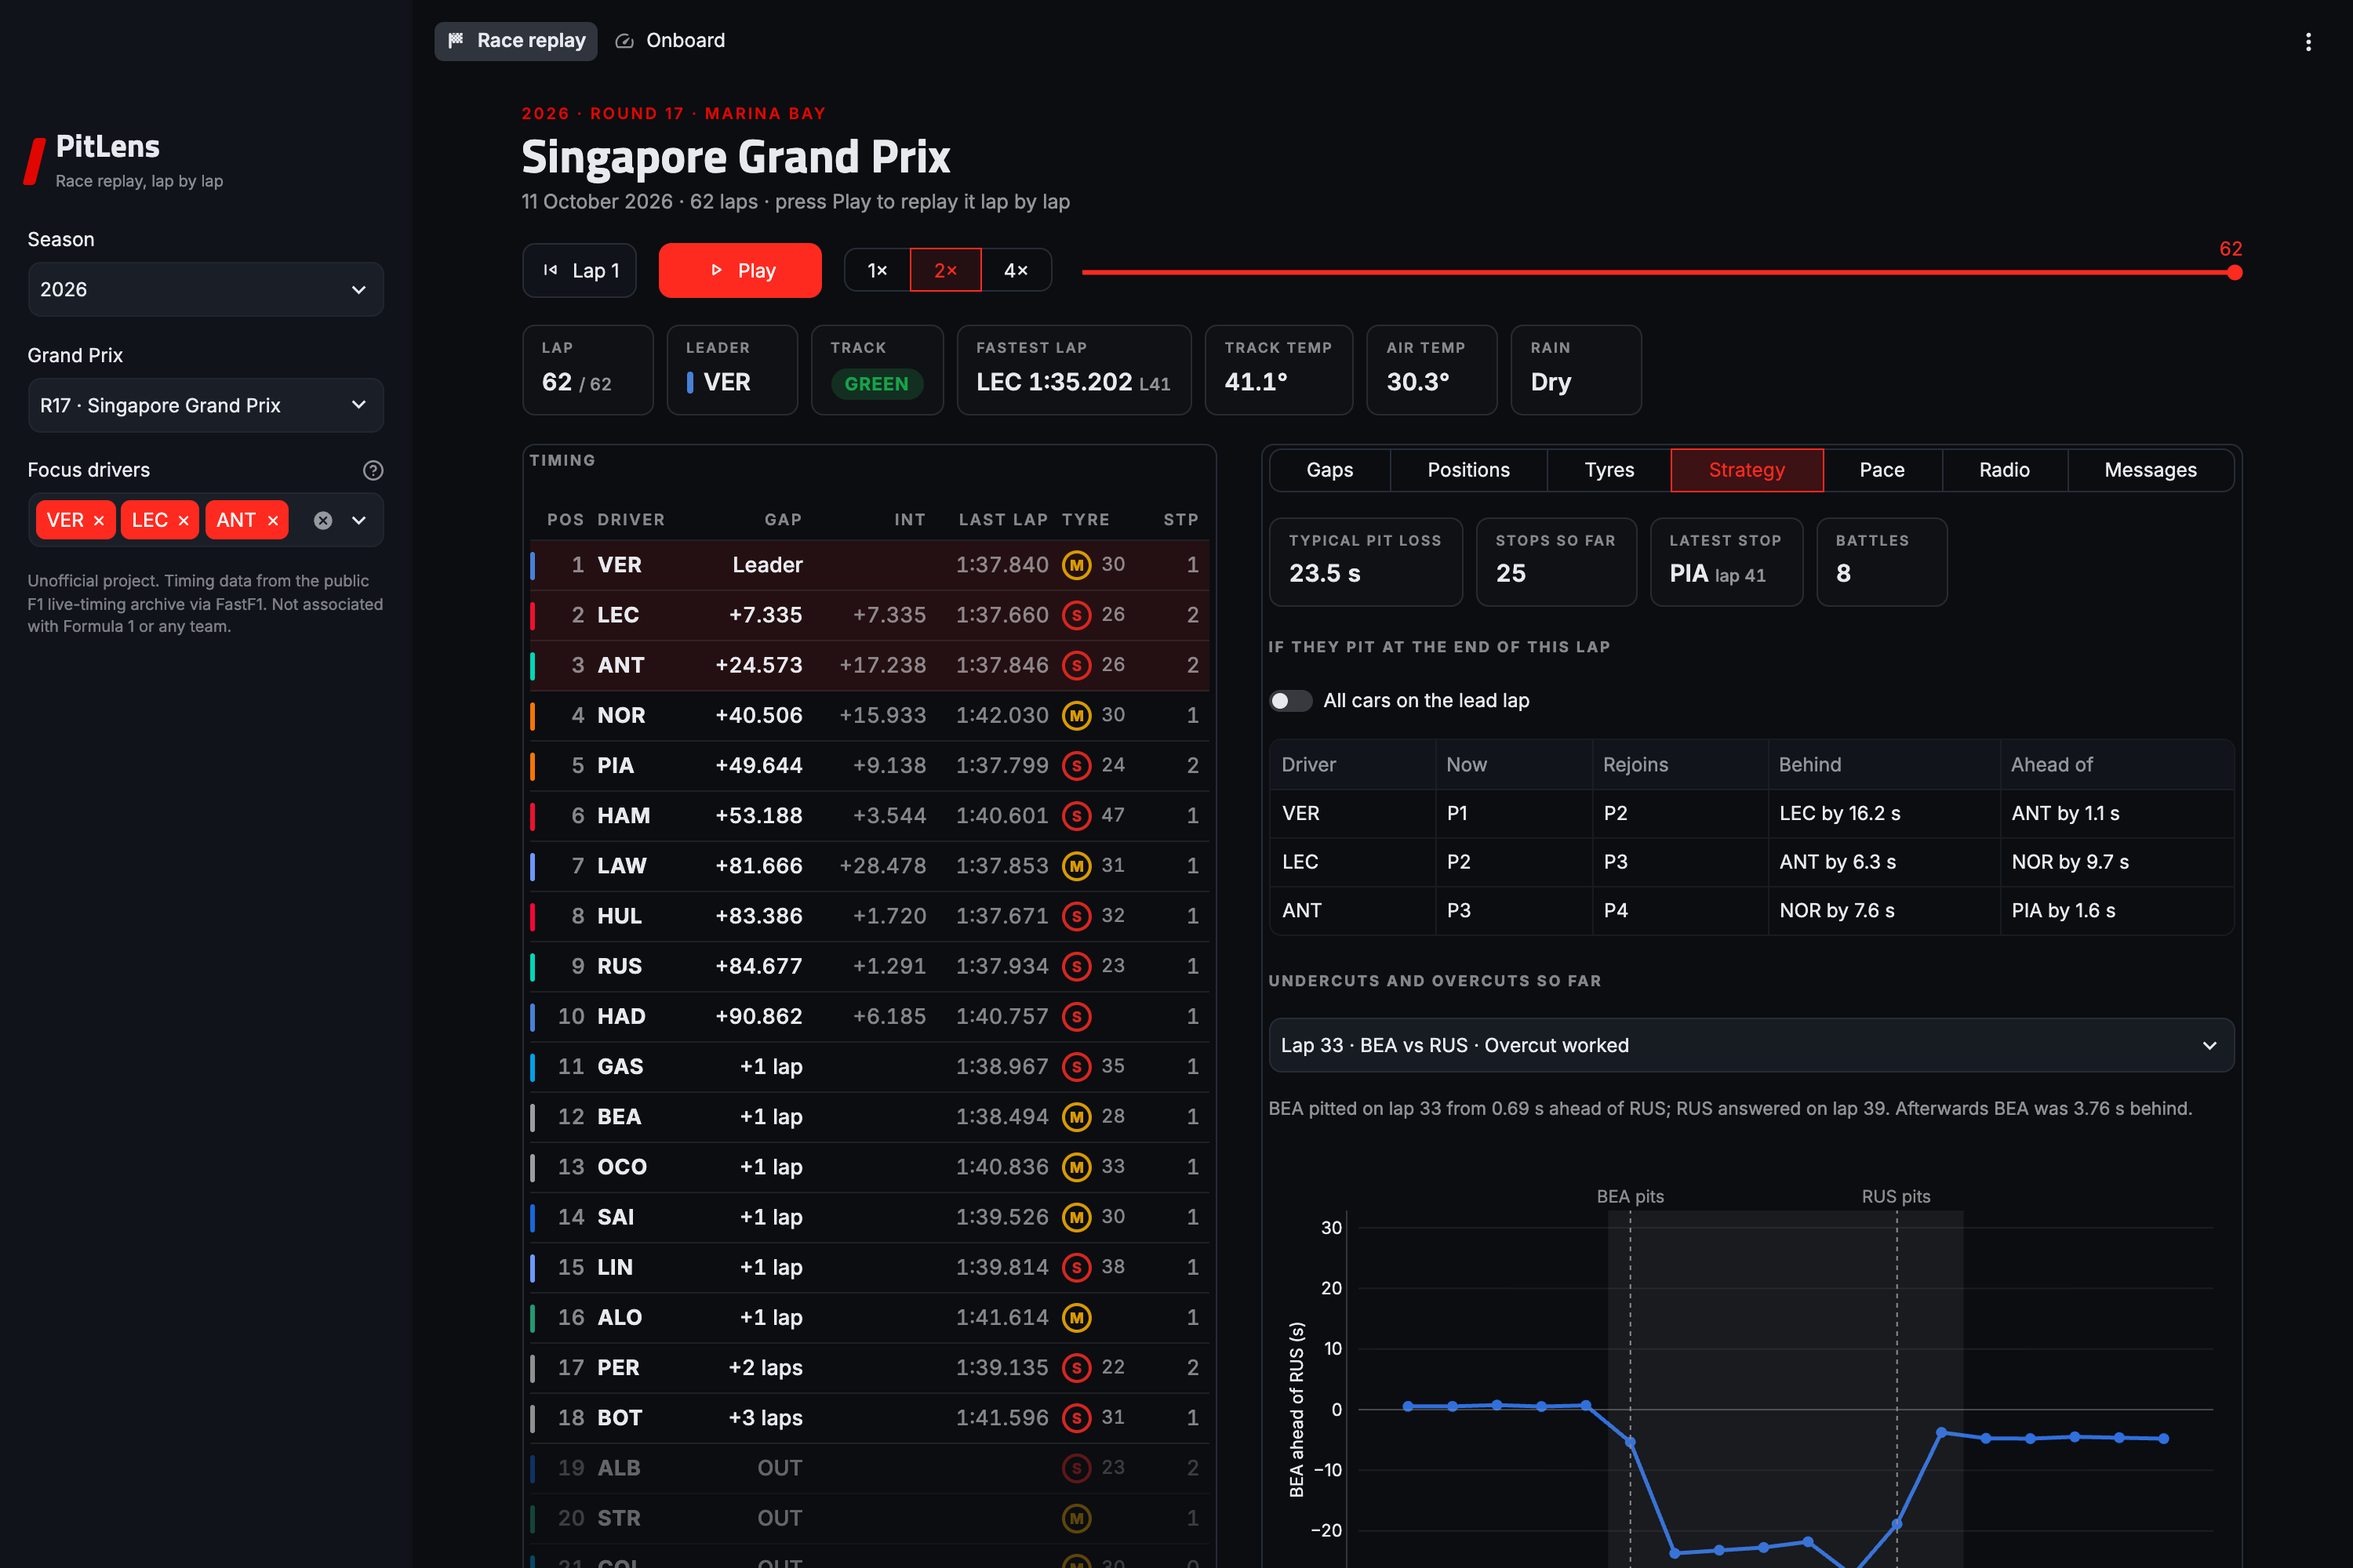
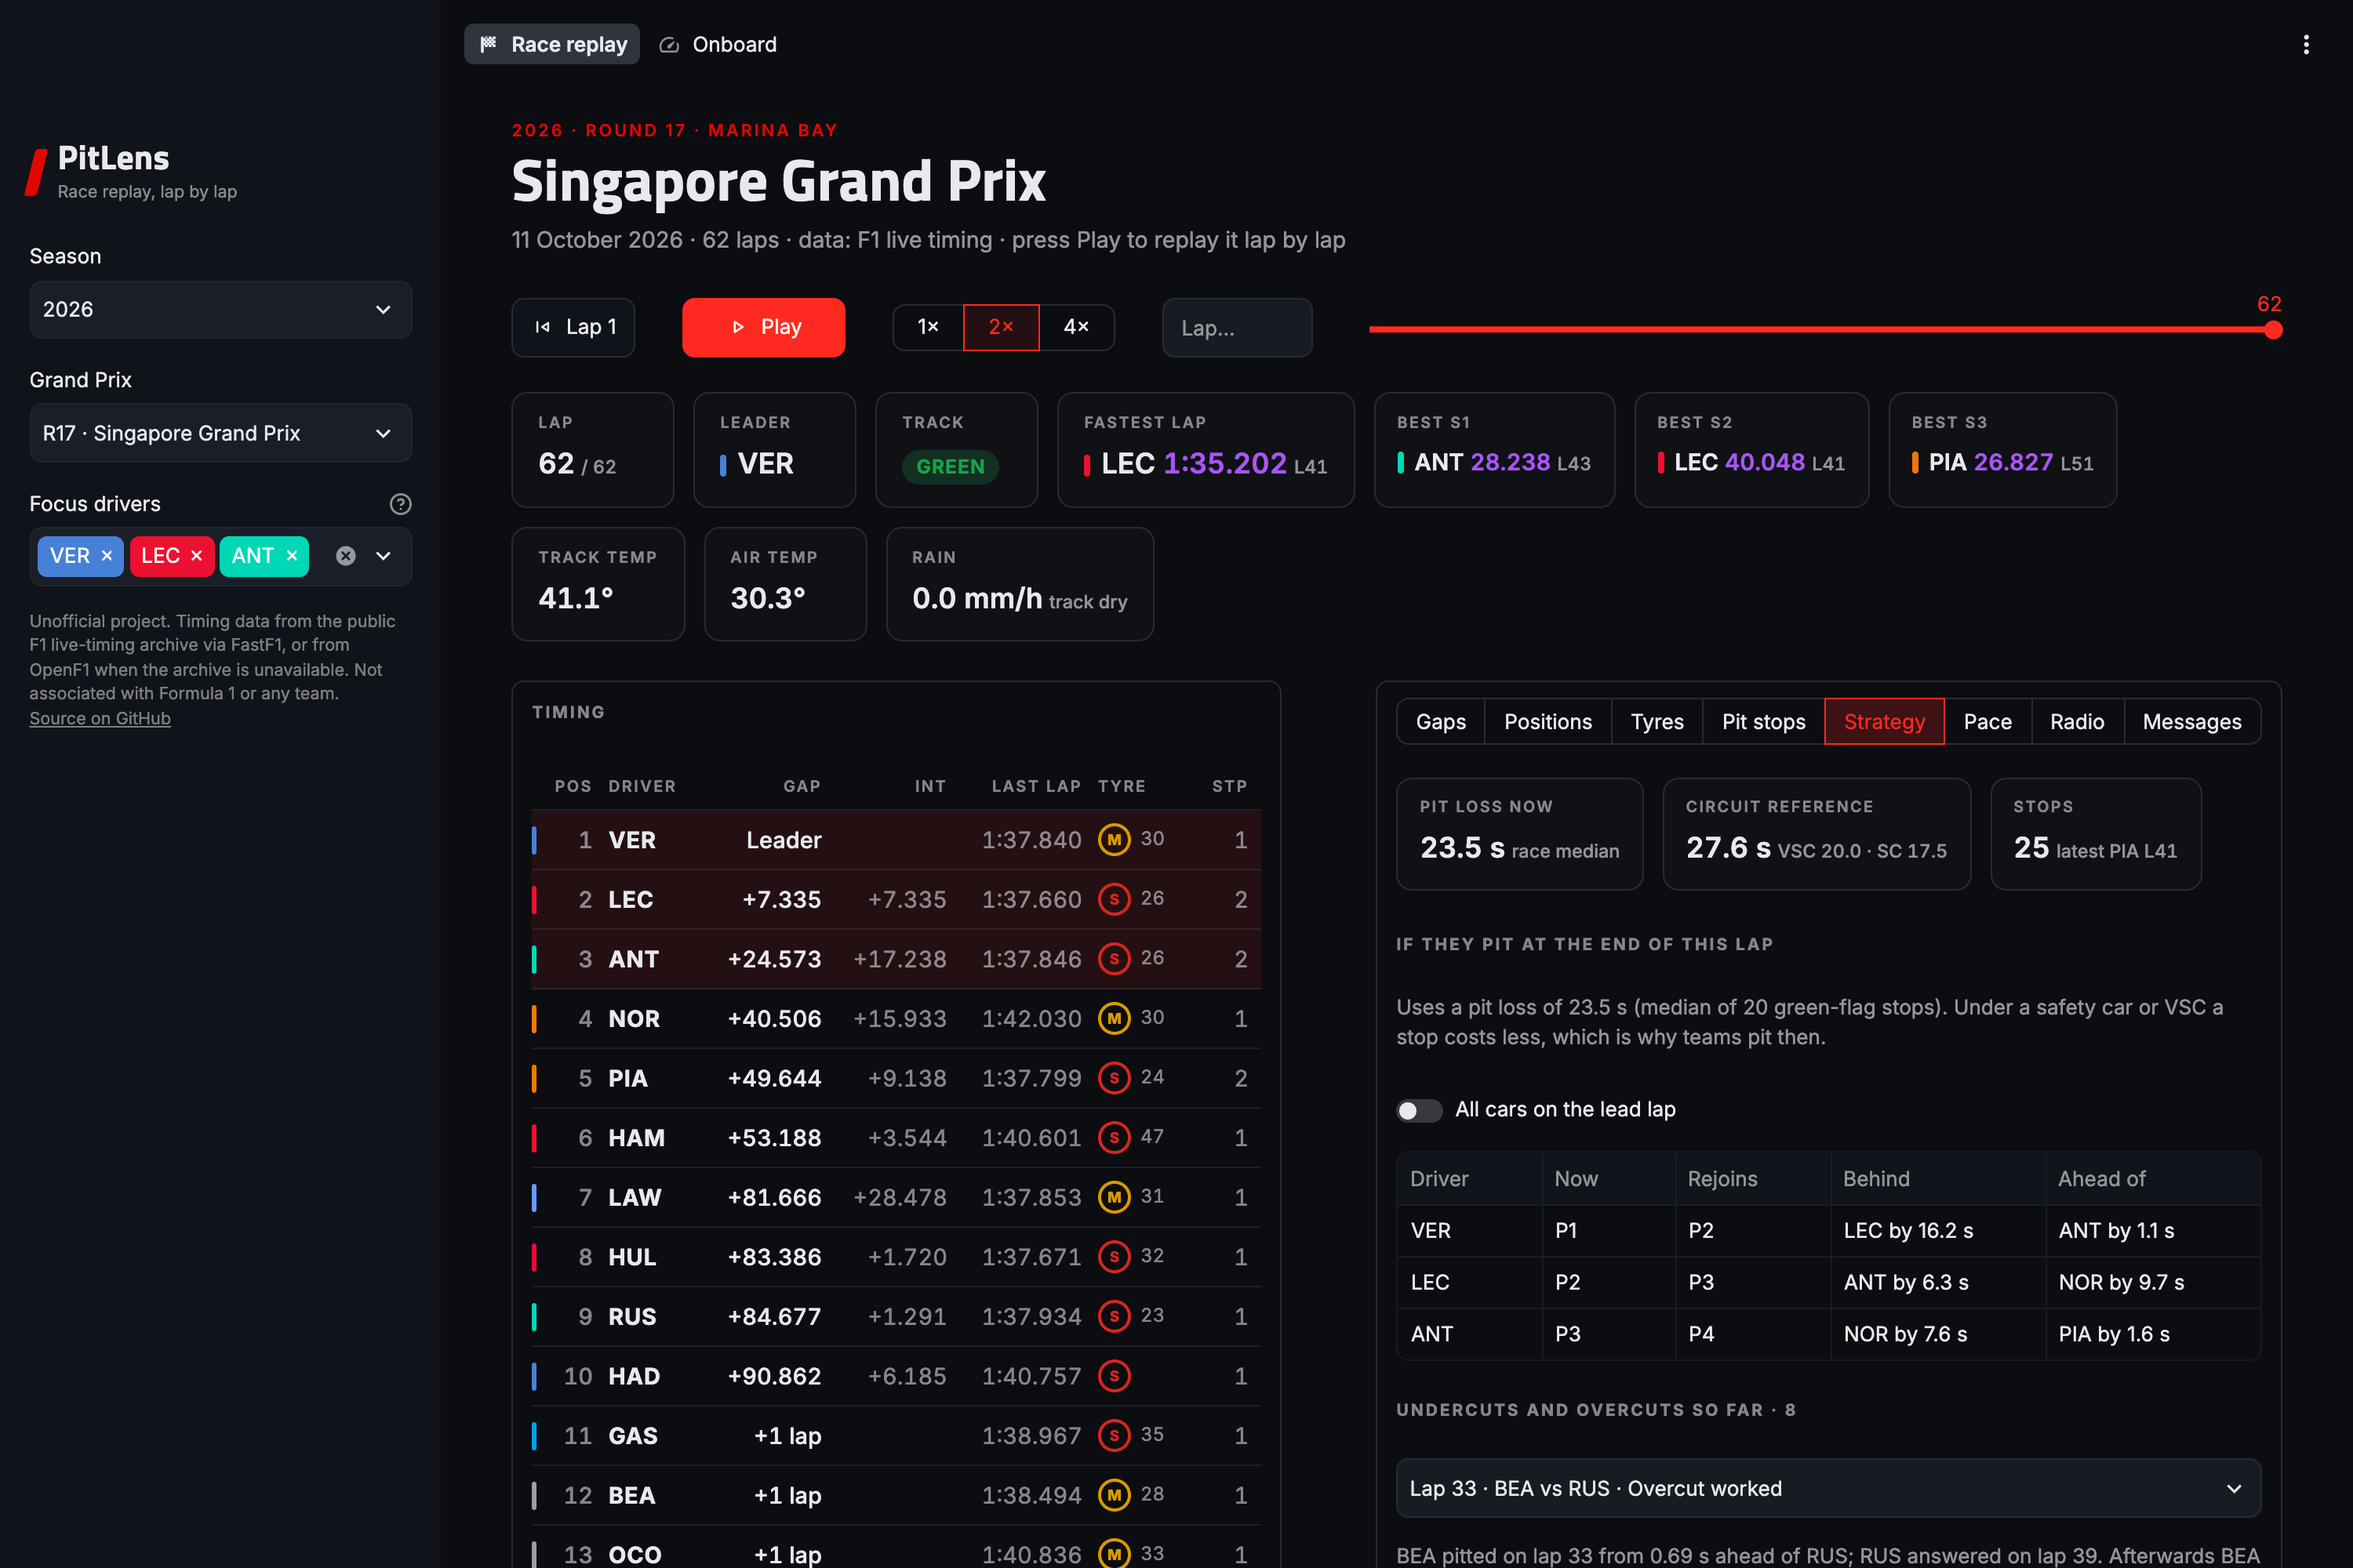
Fit the pit stop list and views bar to their card; refresh README screenshots
The stop list sizes to its card with container queries rather than the
window, so the places column no longer clips at 1500 px, and all eight
views fit the bar. The README gets a Pit stops section and up-to-date
pit wall and strategy screenshots.

diff --git a/pitlens/pitwall/ui.py b/pitlens/pitwall/ui.py
@@ -119,12 +119,12 @@ h1, h2, h3 { letter-spacing: -0.01em; }
 @keyframes pl-in { from { opacity: 0; transform: translateX(28px); } }
 @keyframes pl-out { to { opacity: 0; transform: translateX(28px); visibility: hidden; } }
 
-/* Pit stop list: one row per stop, newest first */
-.pl-pits-wrap { overflow-x: auto; }
-.pl-pits { max-height: 430px; overflow-y: auto; min-width: 560px; }
+/* Pit stop list: one row per stop, newest first. It sizes to its card (container queries), not the window. */
+.pl-pits-wrap { container-type: inline-size; }
+.pl-pits { max-height: 430px; overflow-y: auto; }
 .pl-pit { display: grid; grid-template-columns: 62px 64px minmax(118px, 1fr) 70px 70px 62px 118px; align-items: center;
   gap: 8px; padding: 8px 6px; border-bottom: 1px solid rgba(128,128,128,0.14); font-size: 0.9rem;
-  font-variant-numeric: tabular-nums; min-width: 560px; }
+  font-variant-numeric: tabular-nums; }
 .pl-pit.nostill { grid-template-columns: 62px 64px minmax(118px, 1fr) 70px 62px 118px; }
 .pl-pit.head { border-bottom: 1px solid rgba(128,128,128,0.3); padding-top: 0; font-size: 0.64rem; font-weight: 700;
   letter-spacing: 0.12em; text-transform: uppercase; opacity: 0.55; }
@@ -141,6 +141,22 @@ h1, h2, h3 { letter-spacing: -0.01em; }
 .pl-tyre { display: inline-grid; place-items: center; width: 21px; height: 21px; border-radius: 50%;
   border: 2.5px solid var(--c); font-size: 0.6rem; font-weight: 800; box-sizing: border-box; vertical-align: middle; }
 .pl-pit .arrow { opacity: 0.4; margin: 0 5px; }
+@container (max-width: 640px) {  /* narrower card: no tyre age, flag tag under the lap */
+  .pl-pit { grid-template-columns: 46px 54px 62px 54px 56px 46px minmax(0, 1fr); gap: 6px; font-size: 0.84rem; }
+  .pl-pit.nostill { grid-template-columns: 46px 54px 62px 54px 46px minmax(0, 1fr); }
+  .pl-pit.head { font-size: 0.58rem; letter-spacing: 0.08em; }
+  .pl-pit .age { display: none; }
+  .pl-pit .flag { display: block; width: fit-content; margin: 2px 0 0; }
+  .pl-pit .arrow { margin: 0 2px; }
+}
+@container (max-width: 420px) {  /* phones */
+  .pl-pit { grid-template-columns: 40px 46px 50px 40px 36px 36px minmax(0, 1fr); gap: 4px; padding: 7px 2px;
+    font-size: 0.78rem; }
+  .pl-pit.nostill { grid-template-columns: 40px 46px 50px 40px 36px minmax(0, 1fr); }
+  .pl-pit.head { font-size: 0.56rem; letter-spacing: 0.06em; }
+  .pl-pit .arrow { margin: 0 1px; }
+  .pl-tyre { width: 18px; height: 18px; border-width: 2px; font-size: 0.52rem; }
+}
 .st-key-card-views .pl-stat { padding: 10px 14px 11px; min-width: 0; }
 
 /* Sidebar brand */
@@ -156,6 +172,7 @@ h1, h2, h3 { letter-spacing: -0.01em; }
 
 /* Views bar: scroll sideways rather than wrapping onto a second row */
 .st-key-view [data-testid="stButtonGroup"] { overflow-x: auto; scrollbar-width: none; }
+.st-key-view button { padding-left: 0.6rem; padding-right: 0.6rem; }
 
 /* Replay control bar */
 .st-key-controls { align-items: center; }
@@ -171,16 +188,6 @@ h1, h2, h3 { letter-spacing: -0.01em; }
   .pl-stat.sec .v { font-size: 0.9rem; }
   [class*="st-key-card-"] { padding: 6px 4px; }
   .st-key-pl-notes { right: 10px; top: 56px; width: 236px; }
-  /* Pit stop list without sideways scrolling: no tyre age, flag tag under the lap */
-  .pl-pits, .pl-pit { min-width: 0; }
-  .pl-pit { grid-template-columns: 40px 46px 50px 40px 36px 36px minmax(0, 1fr); gap: 4px; padding: 7px 2px;
-    font-size: 0.78rem; }
-  .pl-pit.nostill { grid-template-columns: 40px 46px 50px 40px 36px minmax(0, 1fr); }
-  .pl-pit.head { font-size: 0.56rem; letter-spacing: 0.06em; }
-  .pl-pit .age { display: none; }
-  .pl-pit .flag { display: block; width: fit-content; margin: 2px 0 0; }
-  .pl-pit .arrow { margin: 0 1px; }
-  .pl-tyre { width: 18px; height: 18px; border-width: 2px; font-size: 0.52rem; }
 }
 </style>
 """

diff --git a/README.md b/README.md
@@ -13,7 +13,7 @@ the same questions a strategy desk asks on a Sunday afternoon.
 ![Streamlit](https://img.shields.io/badge/dashboard-Streamlit-FF4B4B?logo=streamlit&logoColor=white)
 [![License: MIT](https://img.shields.io/badge/license-MIT-blue)](LICENSE)
 
-[Quick start](#quick-start) · [Pit wall](#pit-wall) · [Onboard](#onboard) · [Strategy](#strategy) · [Tyre analysis](#tyre-analysis) · [How it works](#how-it-works) · [Roadmap](ROADMAP.md)
+[Quick start](#quick-start) · [Pit wall](#pit-wall) · [Onboard](#onboard) · [Pit stops](#pit-stops) · [Strategy](#strategy) · [Tyre analysis](#tyre-analysis) · [How it works](#how-it-works) · [Roadmap](ROADMAP.md)
 
 </div>
 
@@ -167,6 +167,22 @@ In the pit wall, open **Onboard** in the sidebar. From the command line:
 | `--open` | off | Open the HTML report when done (macOS) |
 
 The report is a self-contained HTML file in `outputs/onboard/`, plus the corner table as CSV.
+
+## Pit stops
+
+<p align="center">
+  <picture>
+    <source media="(prefers-color-scheme: dark)" srcset="docs/images/pitstops_dark.png">
+    <img src="docs/images/pitstops_light.png" alt="Pit stops view: every stop with pit lane and stationary time, cost and places" width="560">
+  </picture>
+</p>
+
+In the pit wall, pick **Pit stops** above the charts. Every stop up to the current lap, newest
+first: how long it took from pit entry to pit exit and, where F1 publishes it, how long the car
+stood still in its box; the tyres off and on; the time it cost against the cars that stayed out;
+and the places lost or gained. Stops under a safety car or VSC are tagged, the quickest times are
+purple, and below them are the quickest stops and the quickest crews by team. In the 2026
+Barcelona Grand Prix Albon's crew turned him round in 2.1 s on lap 29.
 
 ## Strategy
 
